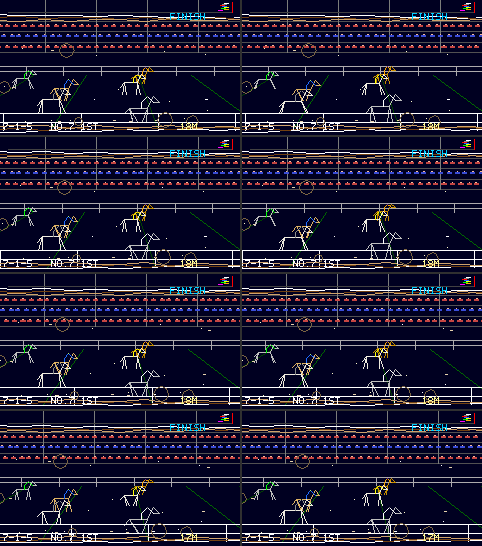
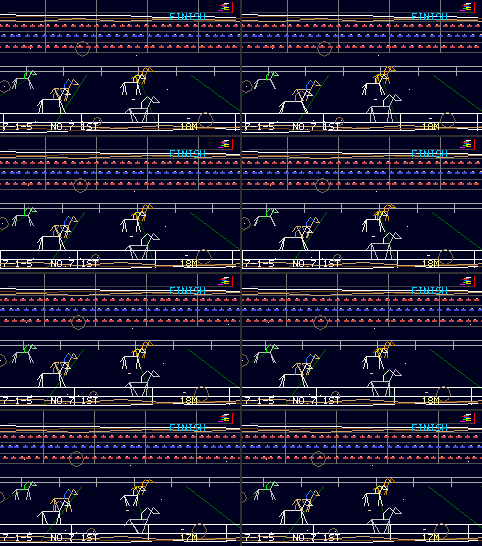
derby: lighter FINISH fx: one dust row (specks and grains), band of 6 segments
Far and mid share one dust row (a slot's hash makes it a speck or a grain):
one draw less in FINISH and in HEAD ON. The band's strokes are 6 segments
(10 before), specks one in 20 px (14) in FINISH and one in 14 px (10) in
HEAD ON, the bokeh one in 60 px (48). Host: FINISH +3 draws, +1,253 VM steps
(+1,840 before); HEAD ON +1 draw, +381 steps (+645). Frames outside FINISH
and HEAD ON identical to vm/main (m32, straight and oval). Pictures: before
(dce2e78) / after.

Claude-Session: https://claude.ai/code/session_015dmtSzSe5gccZdUgWX7xC5

diff --git a/apps/derby/derby_prog.js b/apps/derby/derby_prog.js
@@ -18,14 +18,14 @@ function prog() {
 const KN = [[3, 2, 3, 3, 8, 10, 263170, 921095], [4, 3, 4, 5, 5, 7, 1083458, 3792103],
   [5, 4, 6, 8, 4, 5, 2236962, 7829367], [0xf5d3, 0xc228, 0x3a7a, 7, -1, 2.5],
   // The dust and the band (docs/apps/derby-finish-fx.md; sizes and colours
-  // are the dust, bokeh and band plans' first lines). 0..8 FINISH, 9..17
-  // HEAD ON: the dust's area (x from, x to, y from, height), the layers far,
-  // mid (dust), near (bokeh) as slot px (0: off), the band's strokes a side,
-  // the far layer's rise px a frame. 18..20 each layer's parallax (1: the
-  // track at 16 m), 21 the drift px a frame a unit of parallax, 22 t a frame,
-  // 23 frames a band redraw. (24..26: the cut's frame, cx and camera,
+  // are the dust, bokeh and band plans' first lines). 0..6 FINISH, 7..13
+  // HEAD ON: the dust's area (x from, x to, y from, height), the dust's and
+  // the bokeh's slot px (0: off), the band's strokes a side. 14 the dust's
+  // rise px a frame (FINISH), 15, 16 the dust's and the bokeh's parallax (1:
+  // the track at 16 m), 17 the drift px a frame a unit of parallax, 18 t a
+  // frame, 19 frames a band redraw. (20..22: the cut's frame, cx and camera,
   // appended by paint().)
-  [20, 220, 50, 72, 14, 30, 48, 3, .24, 60, 180, 30, 50, 10, 20, 0, 0, 0, 1, .5, 1, .15, .003, 3]];
+  [20, 220, 50, 72, 20, 60, 3, 60, 180, 30, 50, 14, 0, 0, .24, 1, 1, .15, .003, 3]];
 let tier = 1;
 const T = {
   // rail: the running rail. Posts from the top rail to the ground, a top and
@@ -442,24 +442,24 @@ const T = {
   // look while the row scrolls. The row stops at xR; y within y0..y0 + yH.
   // Every sin argument stays within +-200: newlib's sinf takes a slow path
   // beyond about 201.
-  // dust: one layer of specks (l 0: far) or grains (a line l px long: mid),
-  // in C0 or C1, or in C2 while its twinkle (rate TW) is over SPK. y drifts
-  // with t (the JS scales it), x with o.
-  /** @plan dust inputs: t, o, h0, w, l, xR, y0, yH */
+  // dust: specks (1 px) and, on slots whose hash is over GR, grains (L px
+  // long), in C0 and C1, or in C2 while the twinkle (rate TW) is over SPK. y
+  // drifts with t (the JS scales it), x with o.
+  /** @plan dust inputs: t, o, h0, w, xR, y0, yH */
   dust() {
-    const SPK = .8, TW = 100, C0 = 0xffd9, C1 = 0xe695, C2 = 0xffff, GA = 2.39996;
-    let x = o, h = h0, c = C0;
-    for (let a = 0; a < 1; a++) {
-      if (.5 > l) break;
-      c = C1;
-    }
+    const SPK = .8, TW = 100, GR = .5, L = 2, C0 = 0xffd9, C1 = 0xe695, C2 = 0xffff, GA = 2.39996;
+    let x = o, h = h0;
     const hs = yH * .5, yc = y0 + hs, jx = w * .45, tw = t * TW;
     for (let i = 0; i < 40; i++) {
       if (x > xR) break;
       const u = sin(h);
       const cx = u * jx + x;
       const py = sin(u * 137 + t) * hs + yc;
-      let cu = c;
+      let cu = C0, l = 0;
+      for (let a = 0; a < 1; a++) {
+        if (GR > sin(u * 53)) break;
+        cu = C1; l = L;
+      }
       for (let a2 = 0; a2 < 1; a2++) {
         if (SPK > sin(u * 97 + tw)) break;
         cu = C2;
@@ -471,8 +471,8 @@ const T = {
 
   // bokeh: one layer of N octagons from radius R0 (+-30% by hash) inwards 1
   // px apart, the rim in RIM, the rest in FILL (N 1: a ring). y drifts with
-  // t (the JS scales it), x with o; l is not read (dust's inputs).
-  /** @plan bokeh inputs: t, o, h0, w, l, xR, y0, yH */
+  // t (the JS scales it), x with o.
+  /** @plan bokeh inputs: t, o, h0, w, xR, y0, yH */
   bokeh() {
     const R0 = 6, N = 1, RIM = 0x7b28, FILL = 0x3984, GA = 2.39996;
     let x = o, h = h0;
@@ -494,23 +494,23 @@ const T = {
     }
   },
 
-  // band: strokes hand-drawn lines at the top and the bottom, each 10
+  // band: strokes hand-drawn lines at the top and the bottom, each N
   // segments of SEG px with a jitter of AMP0 + AMP1 * stroke px re-drawn
   // whenever boil (0..5, the JS cycles it: six drawings, as cel boil) changes, tilted up to TILT px a segment; the top's first at
   // y BT, the bottom's at BS - BT, the next GAP px further in (lines close
   // together read as one thick stroke); in white, sepia0, sepia1 by turns.
   /** @plan band inputs: strokes, boil */
   band() {
-    const white = 0xffff, sepia0 = 0x7202, sepia1 = 0xcd0d, BT = 15, BS = 146, GAP = 2.5, TILT = .35, AMP0 = .8, AMP1 = .4, SEG = 25.2;
+    const white = 0xffff, sepia0 = 0x7202, sepia1 = 0xcd0d, BT = 15, BS = 146, GAP = 2.5, TILT = .59, AMP0 = .8, AMP1 = .4, N = 6, SEG = 42;
     let y0 = BT, sg = GAP, c0 = white, c1 = sepia0, c2 = sepia1, hb = boil * 2.29;
     for (let s = 0; s < 2; s++) {
       let yj = y0, amp = AMP0;
       for (let j = 0; j < strokes; j++) {
         const e = sin(hb * .161 + 1.3);
         const tilt = e * TILT;
-        let xb = -6, yb = yj + e - tilt * 5, hq = hb;
+        let xb = -6, yb = yj + e - tilt * (N * .5), hq = hb;
         move(xb, yb);
-        for (let q = 0; q < 10; q++) {
+        for (let q = 0; q < N; q++) {
           xb += SEG; yb += tilt; hq += 2.39996;
           line(xb, sin(hq) * amp + yb, c0);
         }

diff --git a/apps/derby/derby_scene.js b/apps/derby/derby_scene.js
@@ -116,26 +116,27 @@ function paint(c, xs, close, gate, extra) {
   if (scene !== 'race' || cm === 6) vr = null;
   if (vr) ++von;
   H.beginFrame(4);
-  // The dust and the band (KN[4]; docs/apps/derby-finish-fx.md): layers 0, 1
-  // (dust: far, mid), HEAD ON's horses, 2 (bokeh), 3 (band). A layer's slots
-  // scroll by its parallax times d, the pan since the cut (cx, px at 16 m)
-  // and the drift, within the camera's area; t counts from the cut.
-  const e = KN[4], q = scene !== 'race' ? -1 : cm === 3 ? 0 : cm === 6 ? 9 : -1;
-  if (e[26] !== q) e[24] = t, e[25] = cx, e[26] = q;
-  if (q === 9) dr('hd', []);
+  // The dust and the band (KN[4]; docs/apps/derby-finish-fx.md): 0 the dust,
+  // HEAD ON's horses, 1 the bokeh, 2 the band. A row of slots scrolls by its
+  // parallax times d, the pan since the cut (cx, px at 16 m) and the drift,
+  // within the camera's area; t counts from the cut.
+  const e = KN[4], q = scene !== 'race' ? -1 : cm === 3 ? 0 : cm === 6 ? 7 : -1;
+  if (e[22] !== q) e[20] = t, e[21] = cx, e[22] = q;
+  if (q === 7) dr('hd', []);
   else course(c, cx, xs, close, gate);
-  for (let j = 0, f = t - e[24], d = e[21] * f - (q ? 0 : (cx - e[25]) * c[0] / 16); j < (q < 0 ? 0 : 4); ++j) {
+  for (let j = 0, f = t - e[20], d = e[17] * f - (q ? 0 : (cx - e[21]) * c[0] / 16), r = q ? 0 : e[14] * f; j < (q < 0 ? 0 : 3); ++j) {
     // HEAD ON: a still camera 12 m past the line, 2.2 m up, looks back
     // down the course; each horse scaled by its own 1/z (JS divides),
     // the last (farthest) first.
-    if (j === 2 && q) for (let i = 7; i >= 0; --i) {
+    if (j === 1 && q) for (let i = 7; i >= 0; --i) {
       const l = ro[i], q = 400 / (D + 12 - xs[l]), s = .25 * q * sin(ph[l]);
       dr('fr', 120 + (DL[l] - 16.5) * q, 50 + 2.2 * q, q / 6, F.h[l].coat, SILK[l], mx(0, s), mx(0, -s));
     }
-    const w = e[q + 4 + j], o = e[18 + j] * d, k = flo(-o / w) - 1, r = j ? 0 : e[q + 8] * f;
+    const w = e[q + 4 + j];
     if (!w) continue;
-    if (j > 2) dr('band', w, flo(f / e[23]) % 6);
-    else dr(j - 2 ? 'dust' : 'bokeh', f * e[22], e[q] + k * w + o, k * 2.39996 % (2 * PI), w, j * 2, e[q + 1], e[q + 2] - r, e[q + 3] + r);
+    if (j > 1) { dr('band', w, flo(f / e[19]) % 6); continue; }
+    const o = e[15 + j] * d, k = flo(-o / w) - 1;
+    dr(j ? 'bokeh' : 'dust', f * e[18], e[q] + k * w + o, k * 2.39996 % (2 * PI), w, e[q + 1], e[q + 2] - r, e[q + 3] + r);
   }
   if (extra) dr(extra[0], extra[1]);
   H.commit();
